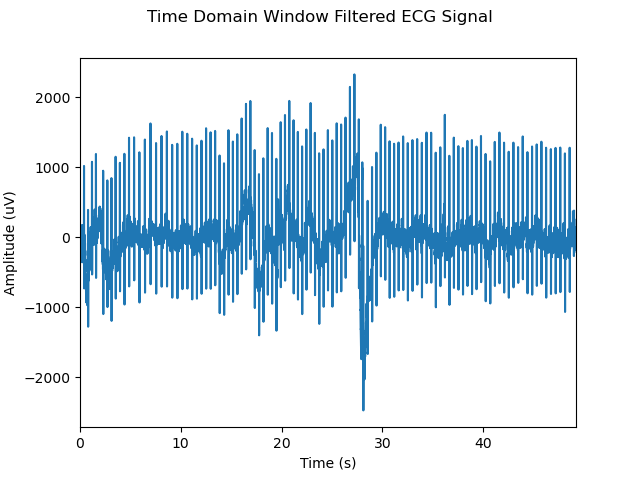
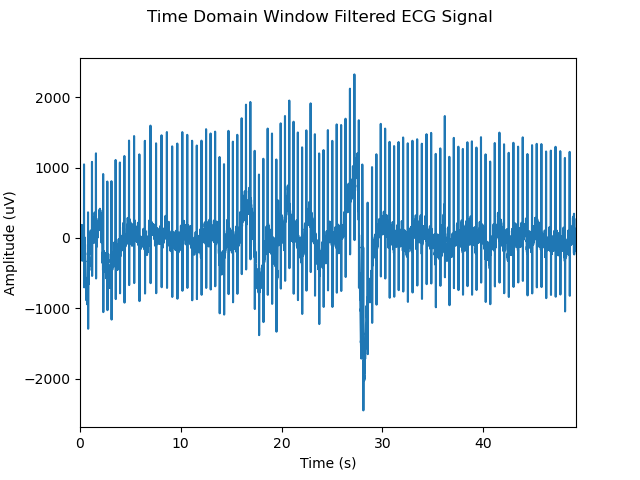
Implementing the optimal filter, recomment the other plots if needed

diff --git a/main.py b/main.py
@@ -180,7 +180,7 @@ def createOptimalFilter(notches, sample_rate, notch_width, gains):
 
     NUM_TAPS = 399 #Max number of taps allowed
     f1, f2 = notches
-    width = notch_width /1.0 #One sided 3dB bandwidth, in Hz
+    width = notch_width / 1.3 #One sided 3dB bandwidth, in Hz
 
     bands= [0, (f1 - width), f1, f1, (f1 + width), (f2 - width), f2, f2, (f2 + width), sample_rate/2]
     filter_array = remez(numtaps=NUM_TAPS, bands=bands, desired=gains, fs=sample_rate)
